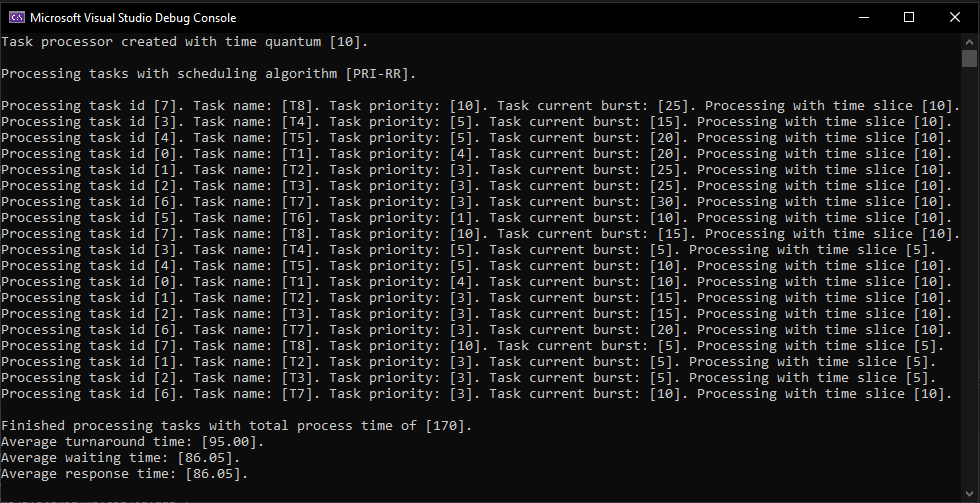
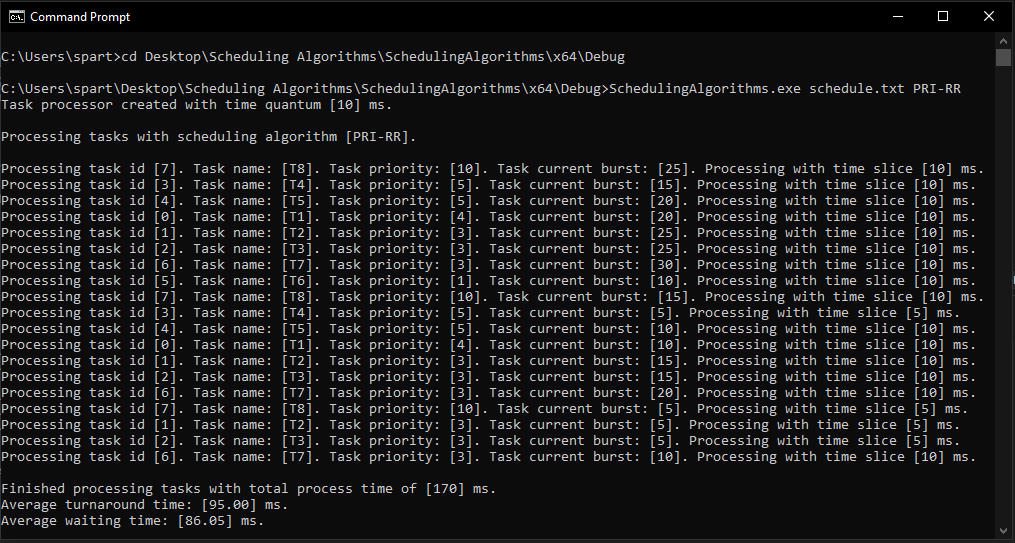
Adding to project 3 and 4. Linked repos for each project. Added compile/run instructions to both projects.

diff --git a/project3.md b/project3.md
@@ -7,8 +7,8 @@ Project 3 Title
 -   **Group: Chris K., Mack W., Robert S.** 
 -   **Grade: A** 
 -   **Language(s): Ruby and Ruby on Rails** 
--   **Source Code Repository:** [features/mastering-markdown](https://guides.github.com/features/mastering-markdown/)  
-    (Please [email me](mailto:example@csustudent.net?subject=GitHub%20Access) to request access.)
+-   **Source Code Repository:** [features/mastering-markdown](https://github.com/rbsquires/BC_race_app.git)  
+    (Please [email me](mailto:rbsquires@csustudent.net?subject=GitHub%20Access) to request access.)
 
 ## Project description
 
@@ -16,14 +16,54 @@ Lorem ipsum dolor sit amet, consectetur adipiscing elit, sed do eiusmod tempor i
 
 ## How to compile and run the program
 
-How to compile (if applicable) and run the project.
-
 ```bash
-cd ./project
-python setup.py
+To get started with the app, clone the repo:
+
 ```
 
-If the programming language does not require compilation, the update the heading to be “How to run the program.” If your application is deployed on a remote service, including instructions on how to deploy it.
+
+Then install the needed gems:
+
+```
+$ gem install bundler -v 2.3.14
+$ bundle _2.3.14_ config set --local without 'production'
+$ bundle _2.3.14_ install
+```
+
+Next, migrate to your the database to check any changes you have:
+
+```
+$ rails db:migrate
+```
+
+To seed your database for admin and other user testing:
+
+```
+$ rails db:migrate
+```
+
+Next, you will point your repository to your Heroku application:
+
+```
+$ heroku git:remote -a YOUR HEROKU APP NAME
+```
+
+Then, you will push everything to your Heroku production site:
+
+```
+$ git push heroku
+```
+
+Finally, you will setup the production database on Heroku:
+
+```
+$ heroku run rails db:migrate
+```
+
+
+
+For more information, see a sample tutorial
+[*Ruby on Rails Tutorial* book](https://www.railstutorial.org/book)
 
 ## UI Design
 
@@ -52,7 +92,7 @@ Fig 6. Top of Profile Page.
 ![screenshot](images/5k Charity Images/Bottom Logged In Page.png)  
 Fig 7. Bottom of Profile Page.
 
-![screenshot](images/5k Charity Images/Admin Profile Page.png)  
+![screenshot](images/5k Charity Images/Profile Page Admin.png)  
 Fig 8. Admin Profile Page.
 
 ![screenshot](images/5k Charity Images/Removing Admin.png)  

diff --git a/project4.md b/project4.md
@@ -7,23 +7,23 @@ Project 4 Title
 -   **Group: Christian H., Robert S.** 
 -   **Grade: A** 
 -   **Language(s): C++** 
--   **Source Code Repository:** [features/mastering-markdown](https://guides.github.com/features/mastering-markdown/)  
-    (Please [email me](mailto:example@csustudent.net?subject=GitHub%20Access) to request access.)
+-   **Source Code Repository:** [features/mastering-markdown](https://github.com/rbsquires/SortingAlgorithms.git)  
+    (Please [email me](mailto:rbsquires@csustudent.net?subject=GitHub%20Access) to request access.)
 
 ## Project description
 
 Lorem ipsum dolor sit amet, consectetur adipiscing elit, sed do eiusmod tempor incididunt ut labore et dolore magna aliqua. Ut enim ad minim veniam, quis nostrud exercitation ullamco laboris nisi ut aliquip ex ea commodo consequat. Duis aute irure dolor in reprehenderit in voluptate velit esse cillum dolore eu fugiat nulla pariatur. Excepteur sint occaecat cupidatat non proident, sunt in culpa qui officia deserunt mollit anim id est laborum.
 
 ## How to compile and run the program
+\* This program requires the use of Visual Studio
 
-How to compile (if applicable) and run the project.
-
+In Windows cmd:
 ```bash
-cd ./project
-python setup.py
+cd \project location
+SchedulingAlgorithm.exe "desired text file" "desire algorithm"
 ```
+[Microsoft Instructions](https://learn.microsoft.com/en-us/cpp/build/vscpp-step-2-build?view=msvc-170)
 
-If the programming language does not require compilation, the update the heading to be “How to run the program.” If your application is deployed on a remote service, including instructions on how to deploy it.
 
 ## UI Design
 
